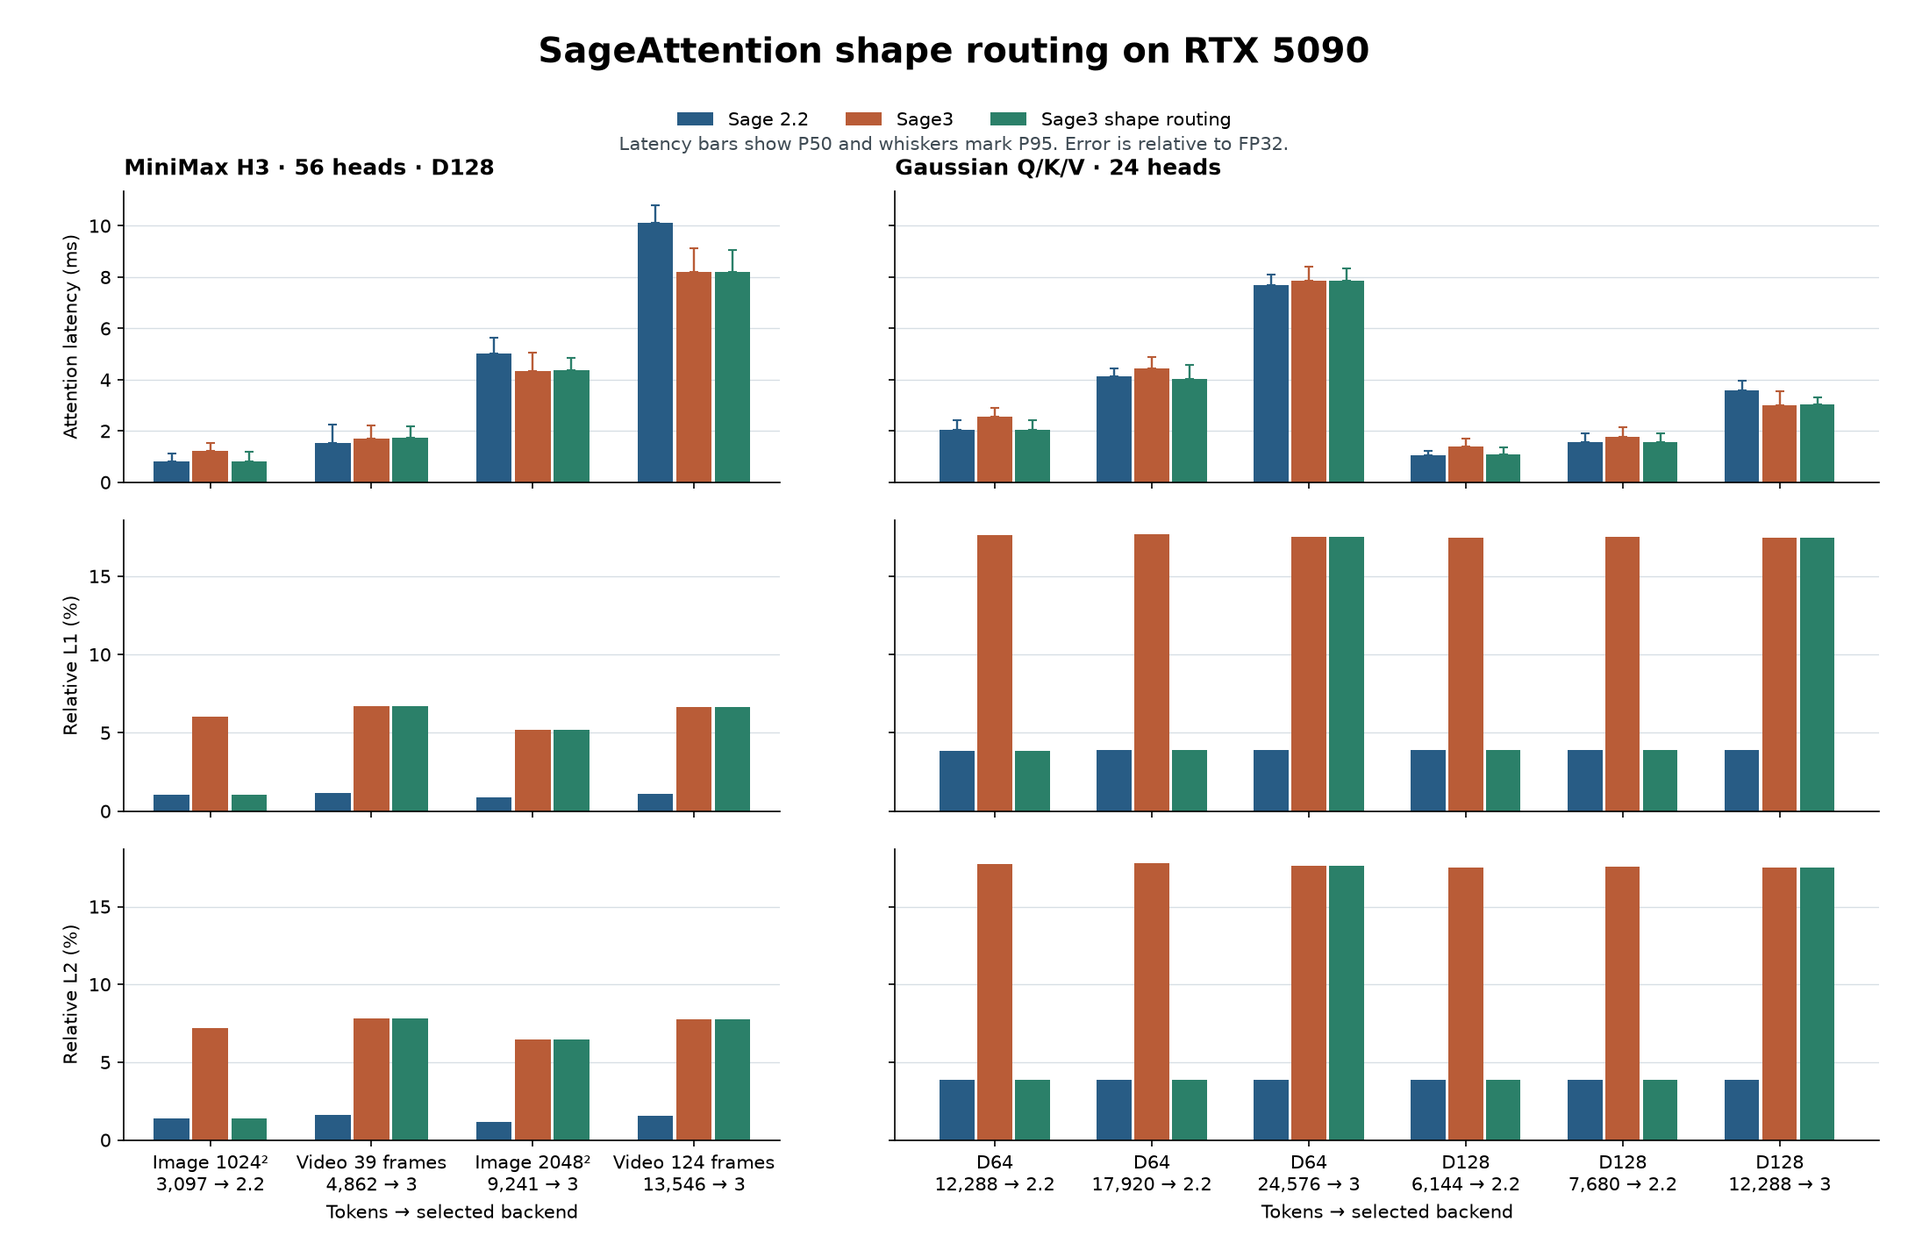
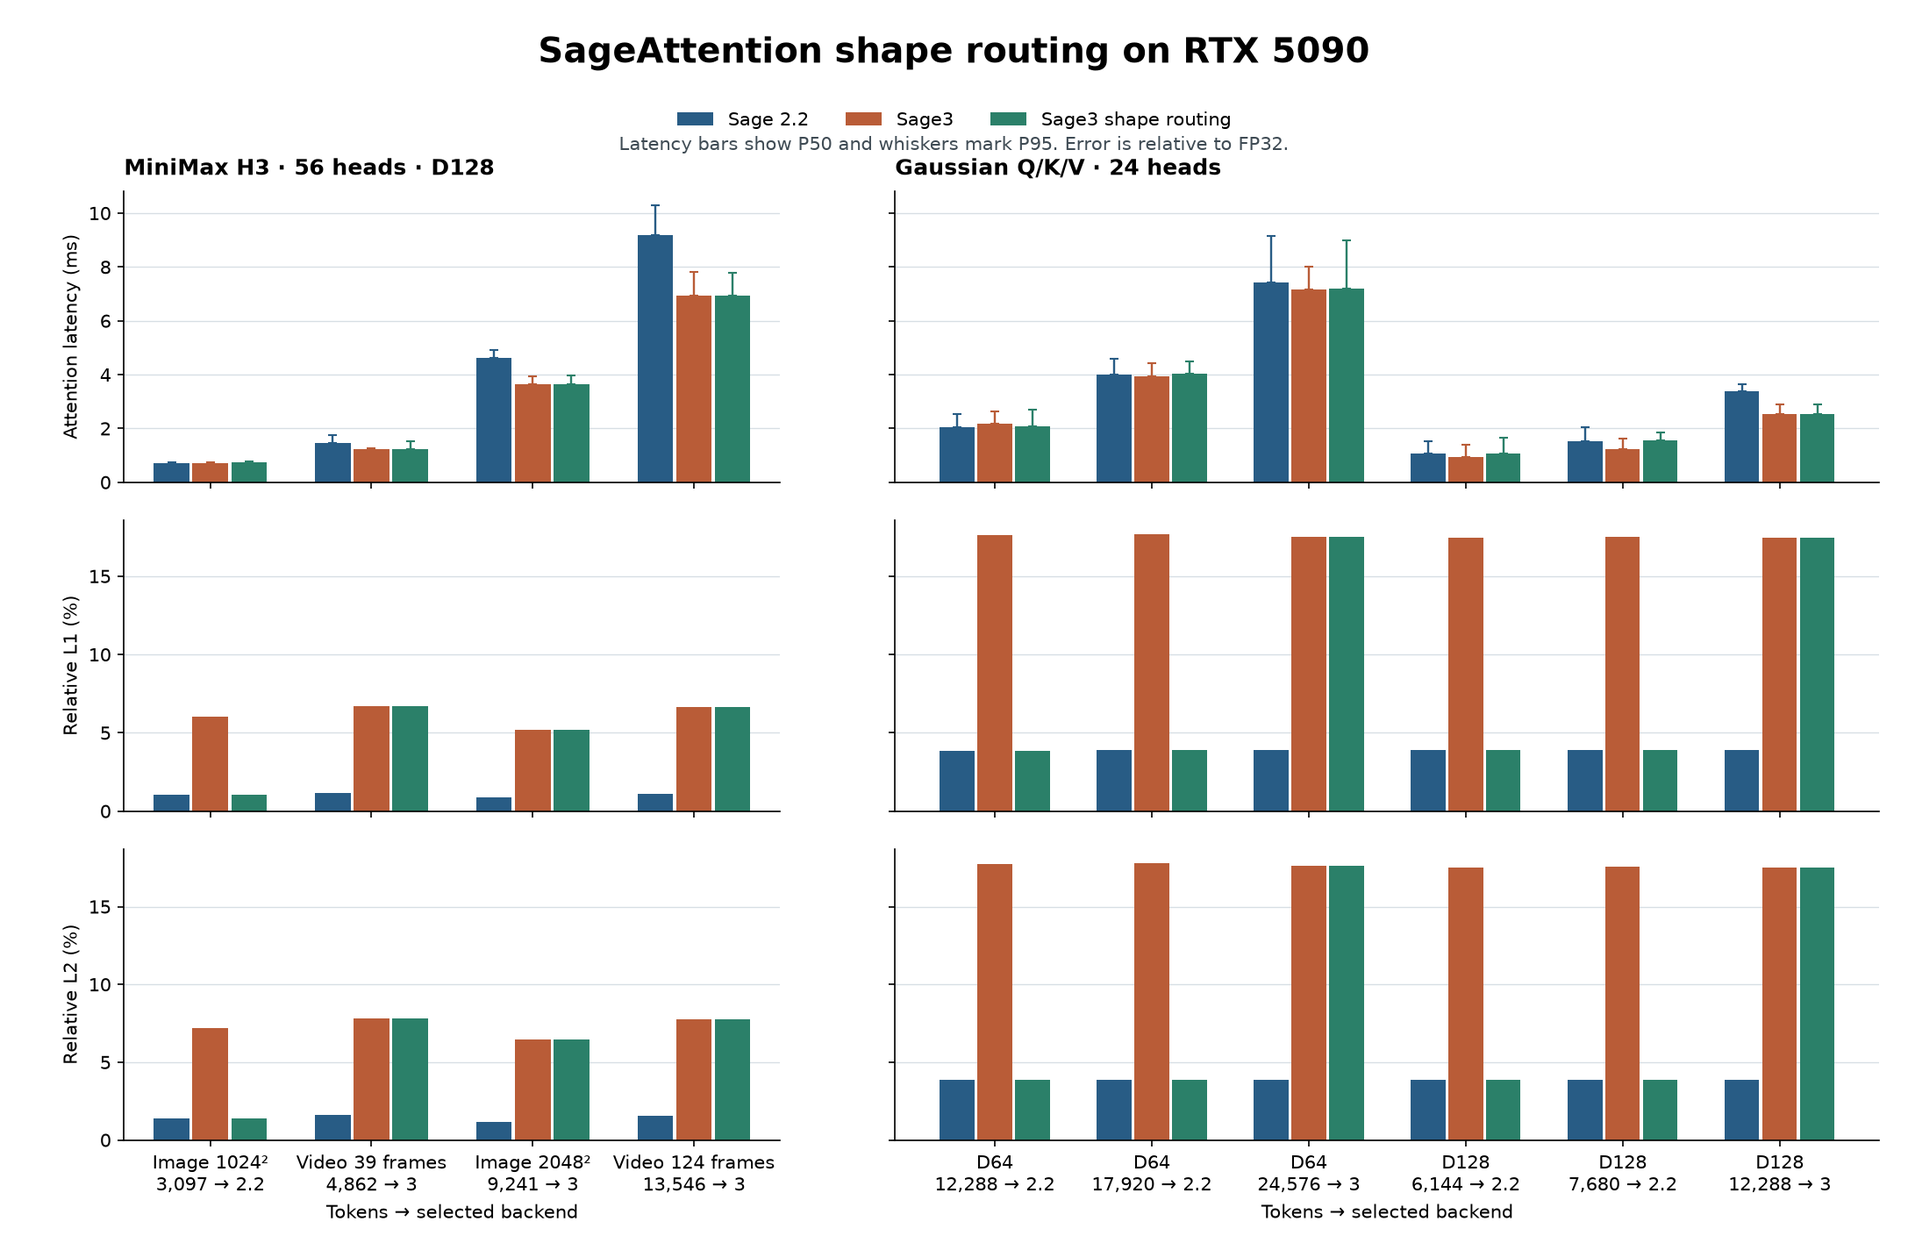
Tune SM120 attention kernels and fix Sage3 CUDA Graph replay
- Reduce shared-memory bank conflicts in the Sage 2.2 V transpose
  and quantize aligned strided V directly in Sage3. Fuse BF16 mean
  correction on Windows SM120.

- Stage TMA descriptors in stream-local storage so each captured
  launch retains its parameters. Cover graph replay, grouped-query
  mean correction, and strided V inputs in regression tests.

diff --git a/sageattention3_blackwell/sageattn3/blackwell/launch.h b/sageattention3_blackwell/sageattn3/blackwell/launch.h
@@ -17,6 +17,8 @@
 #pragma once
 
 #include <ATen/cuda/CUDAContext.h>
+#include <cstdint>
+#include <cstring>
 
 #include "cute/tensor.hpp"
 
@@ -28,6 +30,24 @@
 #include "kernel_ws.h"
 #include "kernel_traits.h"
 
+
+#if defined(_MSC_VER)
+namespace flash {
+
+// CUDA copies by-value arguments into the launch, including during graph capture.
+template <size_t Bytes>
+struct LaunchWords {
+    static_assert(Bytes % sizeof(uint4) == 0 && Bytes <= 4096);
+    uint4 words[Bytes / sizeof(uint4)];
+};
+
+template <size_t Bytes>
+__global__ void stage_attention_params(uint4* dst, const __grid_constant__ LaunchWords<Bytes> src) {
+    dst[threadIdx.x] = src.words[threadIdx.x];
+}
+
+}  // namespace flash
+#endif
 
 template<typename Kernel_traits, bool Is_causal>
 void run_flash_fwd(Flash_fwd_params &params, cudaStream_t stream) {
@@ -96,45 +116,27 @@ void run_flash_fwd(Flash_fwd_params &params, cudaStream_t stream) {
     cutlass::ClusterLaunchParams launch_params{grid_dims, block_dims, cluster_dims, smem_size, stream};
 
 #if defined(_MSC_VER)
-    // MSVC: Use parameter packing to pass parameters to avoid over-aligned parameters reporting a C2719 error.
-
-    struct DeviceParamsPack {
+    struct Params {
         Flash_fwd_params params;
         typename CollectiveMainloop::Params mainloop;
         typename CollectiveEpilogue::Params epilogue;
         typename Scheduler::Params scheduler;
     };
+    Params host_params{params, mainloop_params, epilogue_params, scheduler_params};
+    flash::LaunchWords<sizeof(Params)> words;
+    std::memcpy(&words, &host_params, sizeof(Params));
 
-    DeviceParamsPack h_pack{params, mainloop_params, epilogue_params, scheduler_params};
-
-    DeviceParamsPack *d_pack = nullptr;
-    C10_CUDA_CHECK(cudaMallocAsync(&d_pack, sizeof(DeviceParamsPack), stream));
-    C10_CUDA_CHECK(cudaMemcpyAsync(
-        d_pack, &h_pack, sizeof(DeviceParamsPack),
-        cudaMemcpyHostToDevice, stream));
-    
-    char *base_h = reinterpret_cast<char*>(&h_pack);
-    auto off_params   = reinterpret_cast<char*>(&h_pack.params)    - base_h;
-    auto off_mainloop = reinterpret_cast<char*>(&h_pack.mainloop)  - base_h;
-    auto off_epilogue = reinterpret_cast<char*>(&h_pack.epilogue)  - base_h;
-    auto off_sched    = reinterpret_cast<char*>(&h_pack.scheduler) - base_h;
-
-    char *base_d = reinterpret_cast<char*>(d_pack);
-
-    auto d_params = reinterpret_cast<Flash_fwd_params*>(base_d + off_params);
-    auto d_mainloop_params =
-        reinterpret_cast<typename CollectiveMainloop::Params *>(base_d + off_mainloop);
-    auto d_epilogue_params =
-        reinterpret_cast<typename CollectiveEpilogue::Params *>(base_d + off_epilogue);
-    auto d_scheduler_params =
-        reinterpret_cast<typename Scheduler::Params *>(base_d + off_sched);
-    
-    cutlass::launch_kernel_on_cluster(
-        launch_params, kernel,
-        d_params, d_mainloop_params, d_epilogue_params, d_scheduler_params);
-    
-    C10_CUDA_CHECK(cudaFreeAsync(d_pack, stream));
-
+    // The tensor maps need their native alignment, including with custom CUDA allocators.
+    auto storage = at::empty({int64_t(sizeof(Params) + alignof(Params) - 1)},
+                             at::TensorOptions().device(at::kCUDA).dtype(at::kByte));
+    auto address = reinterpret_cast<std::uintptr_t>(storage.data_ptr());
+    auto aligned = (address + alignof(Params) - 1) & ~(std::uintptr_t(alignof(Params)) - 1);
+    auto* device_params = reinterpret_cast<Params*>(aligned);
+    flash::stage_attention_params<<<1, sizeof(Params) / sizeof(uint4), 0, stream>>>(
+        reinterpret_cast<uint4*>(device_params), words);
+    C10_CUDA_KERNEL_LAUNCH_CHECK();
+    cutlass::launch_kernel_on_cluster(launch_params, kernel, &device_params->params,
+        &device_params->mainloop, &device_params->epilogue, &device_params->scheduler);
 #else
     cutlass::launch_kernel_on_cluster(launch_params, kernel, params, mainloop_params, epilogue_params, scheduler_params);
 #endif

diff --git a/sageattention3_blackwell/tests/test_attention_masks.py b/sageattention3_blackwell/tests/test_attention_masks.py
@@ -44,6 +44,37 @@ class AttentionMaskTest(unittest.TestCase):
             self.assertIs(route(q, q, q), direct.return_value)
 
     @torch.inference_mode()
+    def test_mean_correction_groups_query_heads_and_rounds_to_bf16(self):
+        for dim in (64, 128):
+            q = torch.randn(2, 6, 7, dim, device="cuda", dtype=torch.bfloat16)
+            k = torch.randn(2, 2, 131, dim, device="cuda", dtype=torch.bfloat16)
+            result = self.api._mean_correction(q, k)
+            reference = (q.reshape(2, 2, 21, dim) @ k.transpose(-2, -1)).reshape_as(result)
+            self.assertEqual(result.dtype, torch.float32)
+            self.assertTrue(result.is_contiguous())
+            torch.testing.assert_close(result, result.bfloat16().float(), rtol=0, atol=0)
+            torch.testing.assert_close(result, reference.float(), rtol=0.008, atol=0.0001)
+
+    @torch.inference_mode()
+    def test_graph_replay_keeps_each_launch_parameters(self):
+        graphs = []
+        for length, dim, causal in ((2048, 128, False), (257, 64, True)):
+            q, k, v = (torch.randn(1, 2, length, dim, device="cuda", dtype=torch.bfloat16)
+                       for _ in range(3))
+            self.api.sageattn3_blackwell(q, k, v, is_causal=causal)
+            graph = torch.cuda.CUDAGraph()
+            with torch.cuda.graph(graph):
+                output = self.api.sageattn3_blackwell(q, k, v, is_causal=causal)
+            graphs.append((graph, q, k, v, output, causal))
+
+        for _ in range(3):
+            for graph, q, k, v, output, causal in graphs:
+                v.normal_()
+                expected = self.api.sageattn3_blackwell(q, k, v, is_causal=causal)
+                graph.replay()
+                torch.testing.assert_close(output, expected, rtol=0, atol=0)
+
+    @torch.inference_mode()
     def test_causal_mask_keeps_the_previous_block(self):
         for dtype in (torch.float16, torch.bfloat16):
             for length, dim in ((259, 64), (512, 128)):
@@ -98,6 +129,24 @@ class AttentionMaskTest(unittest.TestCase):
                 )
                 torch.testing.assert_close(actual, expected, rtol=0, atol=0)
                 torch.testing.assert_close(k, original_k, rtol=0, atol=0)
+
+    @torch.inference_mode()
+    def test_v_quantizer_handles_strided_views_and_tail(self):
+        for dtype in (torch.float16, torch.bfloat16):
+            for dim in (64, 128):
+                packed = torch.randn(2, 131, 3, 4, dim, device="cuda", dtype=dtype)
+                fused = packed[:, :, 2].transpose(1, 2)
+                storage = torch.randn(2 * 4 * 128 * dim + 1, device="cuda", dtype=dtype)
+                offset = storage[1:].view(2, 4, 128, dim)
+                wide = torch.randn(2, 4, 131, 2 * dim, device="cuda", dtype=dtype)
+                for v in (fused, offset, wide[..., ::2]):
+                    with self.subTest(dtype=dtype, dim=dim, strides=v.stride()):
+                        ref = v.new_zeros((*v.shape[:2], (v.size(2) + 127) // 128 * 128, dim))
+                        ref[:, :, :v.size(2)].copy_(v)
+                        actual = self.api.scale_and_quant_fp4_transpose(v)
+                        expected = self.api.scale_and_quant_fp4_transpose(ref)
+                        for result, reference in zip(actual, expected):
+                            self.assertTrue(torch.equal(result.view(torch.uint8), reference.view(torch.uint8)))
 
     @torch.inference_mode()
     def test_ragged_chunking_matches_full_attention(self):

diff --git a/sageattention3_blackwell/sageattn3/api.py b/sageattention3_blackwell/sageattn3/api.py
@@ -330,10 +330,45 @@ def _center_q(q, per_block_mean):
     return q - qm, qm
 
 
+@triton.jit
+def _mean_correction_kernel(
+    qm, k, out, rows: tl.constexpr, tokens: tl.constexpr, dim: tl.constexpr,
+    tile_m: tl.constexpr, tile_n: tl.constexpr,
+):
+    tiles_n = tl.cdiv(tokens, tile_n)
+    tiles_m = tl.cdiv(rows, tile_m)
+    pid = tl.program_id(0)
+    head = (pid // (tiles_m * tiles_n)).to(tl.int64)
+    m = (pid // tiles_n % tiles_m) * tile_m + tl.arange(0, tile_m)
+    n = (pid % tiles_n) * tile_n + tl.arange(0, tile_n)
+    d = tl.arange(0, dim)
+    q_block = tl.load(qm + (head * rows + m[:, None]) * dim + d[None, :],
+                      mask=m[:, None] < rows, other=0)
+    k_block = tl.load(k + (head * tokens + n[:, None]) * dim + d[None, :],
+                      mask=n[:, None] < tokens, other=0)
+    # Match the BF16 matmul rounding before storing the FP32 correction for TMA.
+    correction = tl.dot(q_block, tl.trans(k_block)).to(tl.bfloat16).to(tl.float32)
+    tl.store(out + (head * rows + m[:, None]) * tokens + n[None, :], correction,
+             mask=(m[:, None] < rows) & (n[None, :] < tokens))
+
+
 def _mean_correction(qm, k):
     batch, heads, blocks, dim = qm.shape
     # Group Q rows for each KV head so the matmul doesn't expand K.
     qm = qm.reshape(batch, k.size(1), -1, dim)
+    if (sys.platform == "win32" and qm.is_cuda and qm.device == k.device
+            and qm.dtype == k.dtype == torch.bfloat16 and dim in (64, 128)
+            and qm.numel() and k.numel() and qm.is_contiguous() and k.is_contiguous()
+            and not torch.is_autocast_enabled()
+            and not (torch.is_grad_enabled() and (qm.requires_grad or k.requires_grad))
+            and torch.cuda.get_device_capability(qm.device) == (12, 0)):
+        rows, tokens = qm.size(2), k.size(2)
+        out = torch.empty((batch, heads, blocks, tokens), device=qm.device, dtype=torch.float32)
+        tile_m, tile_n = 32, 64
+        grid = (batch * k.size(1) * triton.cdiv(rows, tile_m) * triton.cdiv(tokens, tile_n),)
+        with torch.cuda.device(qm.device):
+            _mean_correction_kernel[grid](qm, k, out, rows, tokens, dim, tile_m, tile_n, num_warps=4)
+        return out
     return (qm @ k.transpose(-2, -1)).reshape(batch, heads, blocks, k.size(2)).float().contiguous()
 
 
@@ -454,7 +489,7 @@ def _sageattn3_blackwell(q, k, v, attn_mask, is_causal, per_block_mean, sm_scale
 
     k = _center_k(k)
     packed_k = scale_and_quant_fp4_permute(k)
-    packed_v = scale_and_quant_fp4_transpose(pad_128(v))
+    packed_v = scale_and_quant_fp4_transpose(v)
 
     def attention(q_chunk):
         packed_q, qm = _prepare_q(q_chunk, per_block_mean)

diff --git a/README.md b/README.md
@@ -9,8 +9,9 @@ This fork began as a small set of Windows build and packaging patches for [SageA
 
 ## Optimizations in this fork
 
-- **SageAttention 2.2** uses standard E4M3 conversion and, where supported, normalizes attention with row sums from the rounded FP8 probabilities. Paths that return log-sum-exp retain FP32 row sums. [VC-Attention](https://arxiv.org/abs/2609.15810)
+- **SageAttention 2.2** uses standard E4M3 conversion and, where supported, normalizes attention with row sums from the rounded FP8 probabilities. Paths that return log-sum-exp retain FP32 row sums. On SM120, the V transpose pads shared-memory rows to reduce bank conflicts. [VC-Attention](https://arxiv.org/abs/2609.15810)
 - **SageAttention 3** fuses 128-token Q block centering with FP4 quantization for aligned inputs. Each 16-element Q and K block evaluates five E4M3 scales derived from `amax / {6, 5.5, 5, 4.5, 4}`. Each V channel evaluates `amax / 6` and its neighboring finite E4M3 encodings over 16 consecutive tokens. The quantizers pick the candidates with the lowest reconstruction error. [#411](https://github.com/thu-ml/SageAttention/pull/411) · [Four Over Six](https://arxiv.org/abs/2512.02010) · [ScaleSweep](https://arxiv.org/abs/2606.07618)
+- The Sage3 V quantizer reads aligned strided views directly and pads the final token block in the kernel. On Windows SM120, Sage3 also fuses the BF16 mean-correction matmul, rounding, and FP32 writeback. Each Windows launch retains its own TMA parameters during CUDA Graph replay.
 - **Shape routing** lets the Sage3 entry point choose Sage 2.2 on Windows RTX 5090 with PyTorch 2.12.1+cu130 and a compatible Sage 2.2 installation. The cutoff covers every sequence length from 255 through the inclusive limit for the head count, head width, and Q/K/V strides. Eligible calls use eager, non-causal BF16 self-attention with batch size 1, equal Q/K/V shapes, per-block means, and no mask or explicit chunk size.
 - **Windows builds** use the PyTorch dispatcher and the CPython stable ABI, with FakeTensor support for `torch.compile`. CUDA 13.x builds handle the Windows SAL and CCCL header conflict. CUDA 13.2 and later use MSVC’s conforming preprocessor.
 
@@ -31,7 +32,7 @@ The current wheel matrix includes CUDA 13.0, 13.2, and 13.4 with PyTorch release
 
 The SageAttention 2.2 wheels cover Ampere, Ada, Hopper, and Blackwell where the matching CUDA toolkit supports the architecture. The SageAttention 3 wheels target Blackwell `sm_120` on CUDA 12.8 and `sm_120`/`sm_121` on CUDA 13.x.
 
-The published [20261123 wheels](https://github.com/mengqin/SageAttention/releases/tag/20261123) were built from `52c3115`. The V three-candidate quantizer and shape routing are on newer `main`. The current measurements below use the routing build from `9c8bd90`.
+The 20261123 release was built from `52c3115`. The attention benchmarks below use local `+cu130torch2121.tune2` wheels with the three-candidate V quantizer, shape routing, and SM120 kernel updates. [20261123 wheels](https://github.com/mengqin/SageAttention/releases/tag/20261123)
 
 Install the selected wheel with `python -m pip install <wheel-file.whl>` in the environment that runs your application. The [SageAttention 3 README](sageattention3_blackwell/README.md) and [upstream documentation](https://github.com/thu-ml/SageAttention/tree/d1a57a546c3d395b1ffcbeecc66d81db76f3b4b5#installation) cover source builds and additional API options.
 
@@ -54,18 +55,20 @@ Each cell reports attention P50 and relative L1 error.
 
 | H3 replay | Tokens | Routed backend | Our Sage 2.2 | Our Sage3 | Our Sage3 shape routing |
 | --- | ---: | --- | ---: | ---: | ---: |
-| Image 1024² | 3,097 | Sage 2.2 | 0.806 ms / 1.06% | 1.218 ms / 6.06% | 0.820 ms / 1.06% |
-| Video 768 × 448, 39 frames | 4,862 | Sage3 | 1.546 ms / 1.17% | 1.719 ms / 6.73% | 1.754 ms / 6.73% |
-| Image 2048² | 9,241 | Sage3 | 5.012 ms / 0.86% | 4.344 ms / 5.21% | 4.365 ms / 5.21% |
-| Video 768 × 448, 124 frames | 13,546 | Sage3 | 10.115 ms / 1.09% | 8.197 ms / 6.63% | 8.213 ms / 6.63% |
+| Image 1024² | 3,097 | Sage 2.2 | 0.725 ms / 1.06% | 0.724 ms / 6.06% | 0.735 ms / 1.06% |
+| Video 768 × 448, 39 frames | 4,862 | Sage3 | 1.450 ms / 1.17% | 1.232 ms / 6.73% | 1.236 ms / 6.73% |
+| Image 2048² | 9,241 | Sage3 | 4.606 ms / 0.86% | 3.638 ms / 5.21% | 3.643 ms / 5.21% |
+| Video 768 × 448, 124 frames | 13,546 | Sage3 | 9.173 ms / 1.09% | 6.925 ms / 6.63% | 6.929 ms / 6.63% |
 
-At 3,097 tokens, shape routing lowers P50 by **32.7%** and relative L1 from **6.06% to 1.06%** versus direct Sage3. The two longest H3 replays route to Sage3 and cut P50 by **12.9% and 18.8%** versus direct Sage 2.2. The 4,862-token video falls above the calibrated 4,736-token cutoff for fused Q/K/V with 56 heads and head width 128. Direct Sage 2.2 was faster on that replay. For the four Gaussian workloads routed to Sage 2.2, shape routing lowers P50 by **9.5%–23.3%** and relative L1 from about **17.5%–17.7% to 3.9%** versus direct Sage3.
+At 3,097 tokens, shape routing selects Sage 2.2. Relative L1 drops from **6.06% to 1.06%** and P50 rises from 0.724 to 0.735 ms compared with direct Sage3. The other three H3 workloads exceed the 4,736-token cutoff and route to Sage3. Their routed P50 is **14.8%, 20.9%, and 24.5% lower** than direct Sage 2.2, respectively.
 
-The tests use CUDA events to time the full attention call, including online preprocessing, on Windows with RTX 5090 and PyTorch 2.12.1+cu130. Each arm has 18 warmups and 60 timed calls per sample. H3 uses three layer captures per workload, with Image captures from the public Comfy-Org checkpoint. Gaussian workloads use two seeds. The chart and table report medians across samples. Error uses 96 query positions against FP32 attention with the full K/V sequence and TF32 disabled. All 24 routed outputs matched the outputs of their selected backends bitwise. The process used at most **88 MiB of shared GPU memory** in WDDM sampling. [Per-sample P50, P95, L1, L2, and peak allocation](assets/windows-comparison/shape-routing-benchmark.csv)
+Four Gaussian shapes route to Sage 2.2, reducing relative L1 from **17.5%–17.7% to about 3.9%** versus direct Sage3. Latency depends on the shape. At head width 64 and 12,288 tokens, routing lowers P50 by 5.1%. At head width 128 and 7,680 tokens, routing raises P50 by 26.5% (1.220 to 1.543 ms).
+
+The tests use CUDA events to time a single eager attention call, including online preprocessing, on Windows with RTX 5090 and PyTorch 2.12.1+cu130. Each arm has 18 warmups and 60 timed calls per sample. H3 uses three layer captures per workload, with Image captures from the public Comfy-Org checkpoint. Gaussian workloads use two seeds. The chart and table report medians across samples. Error uses 96 query positions against FP32 attention with the full K/V sequence and TF32 disabled. All 24 routed outputs matched their selected backends bitwise. Relative L1 and L2 matched the previous benchmark for all 72 measurements. WDDM sampling recorded a peak of **86 MiB** of shared GPU memory for the process and **4.87 GiB** of dedicated GPU memory for the adapter. [Per-sample P50, P95, L1, L2, and peak allocation](assets/windows-comparison/shape-routing-benchmark.csv)
 
 ## MiniMax H3 Image examples
 
-Both resolutions use the same three prompts and seeds, the public Comfy-Org INT8 ConvRot checkpoint, a black reference image, six-step Euler sampling with CFG 1, and tiled VAE decoding. Within each resolution, the comparison varies the attention backend in the 50 diffusion transformer blocks. The upstream columns use attention logic from `d1a57a5` with the Windows build and launch compatibility changes from `06f8d49`.
+The images and RGB metrics below come from the earlier rendering runs. Both resolutions use the same three prompts and seeds, the public Comfy-Org INT8 ConvRot checkpoint, a black reference image, six-step Euler sampling with CFG 1, and tiled VAE decoding. Within each resolution, the comparison varies the attention backend in the 50 diffusion transformer blocks. The upstream columns use attention logic from `d1a57a5` with the Windows build and launch compatibility changes from `06f8d49`.
 
 ### 1024 × 1024
 
@@ -89,7 +92,7 @@ The first five columns use the original full-frame renders from the upstream com
 
 Against the cuDNN SDPA reference, our Sage3 lowers RGB MAE and raises PSNR in all three scenes compared with upstream Sage3. The largest MAE drop is in the architecture scene, from 20.98 to 15.92 on the 0–255 RGB scale. Our Sage2.2 lowers MAE for the portrait and raises it for the textiles and architecture scenes.
 
-The new shape routing runs selected Sage3 for all 300 attention calls per scene at 21,565–21,584 tokens. Each routed PNG was byte-identical to a direct Sage3 PNG rendered in the same run.
+Shape routing selected Sage3 for all 300 attention calls per scene at 21,565–21,584 tokens. Each routed PNG was byte-identical to a direct Sage3 PNG rendered in the same run.
 
 <details>
 <summary>Prompts and sampling settings</summary>
